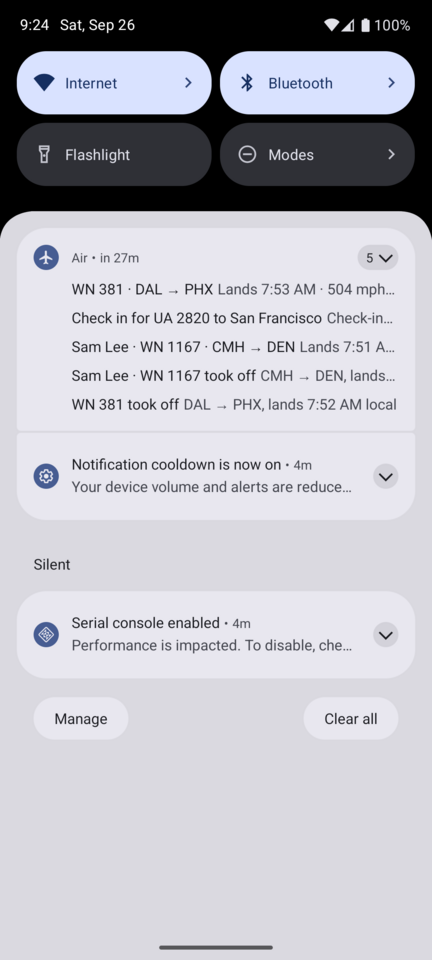
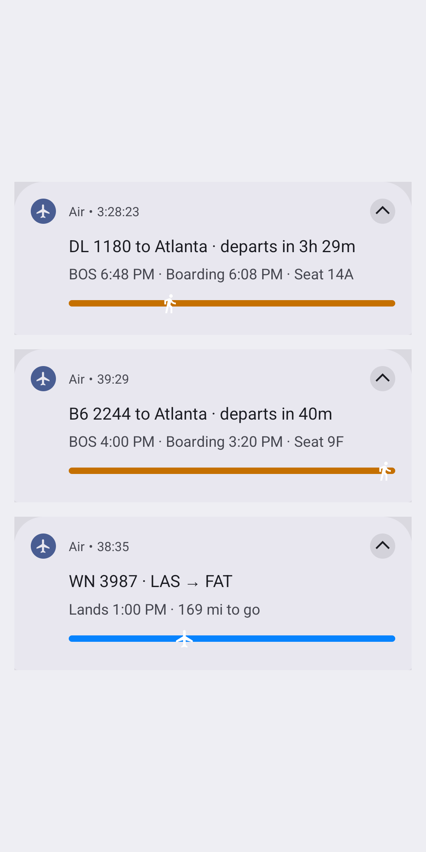
README: screenshots under the intro, notification stages, data sources table
Screenshots sit in a row under the intro; the notifications image stacks
the live notification before the airport, at the airport and in the air,
each captured on its own. Data sources at the bottom as a table of what
each service is used for, what it's sent and how often. Guides bullet and
build section dropped.

diff --git a/tools/screenshots.py b/tools/screenshots.py
@@ -402,32 +402,30 @@ def shade_card(f: dict) -> "Image.Image | None":
     time.sleep(25)
     shell("input keyevent KEYCODE_HOME")
     time.sleep(2)
-    xml = ""
-    for _ in range(8):  # a swipe from the top, as a person would; the statusbar command alone is unreliable
-        shell("input swipe 540 2 540 1600 300")
-        time.sleep(1)
-        shell("cmd statusbar expand-notifications")
-        time.sleep(3)
-        shell("uiautomator dump /sdcard/ui.xml", check=False)
-        xml = shell("cat /sdcard/ui.xml", check=False)
-        if "expandableNotificationRow" in xml:
-            break
+    shell("input swipe 540 2 540 1600 300")  # a swipe from the top, as a person would
+    time.sleep(1)
+    shell("cmd statusbar expand-notifications")
+    time.sleep(5)  # let the shade finish opening and settle
     path = OUT / "_shade.png"
     with open(path, "wb") as fh:
         subprocess.run([ADB, "exec-out", "screencap", "-p"], stdout=fh, check=True)
     shell("cmd statusbar collapse")
     shade = Image.open(path).convert("RGB")
+    if os.environ.get("AIR_SHOTS_DEBUG"):
+        shade.save(OUT / f"_debug_{f['airline']}{f['number']}.png")
     path.unlink()
-    label = f"{f['airline']} {f['number']}"
-    num = r"\[(\d+),(\d+)\]\[(\d+),(\d+)\]"
-    rows = [tuple(map(int, m.groups())) for m in re.finditer(r'expandableNotificationRow"[^>]*?bounds="' + num, xml)]
-    texts = [(m.group(1), *map(int, m.groups()[1:])) for m in re.finditer(r'text="([^"]*)"[^>]*?bounds="' + num, xml)]
-    hits = [r for r in rows if any(label in t and r[0] <= (x0 + x1) / 2 <= r[2] and r[1] <= (y0 + y1) / 2 <= r[3]
-                                   for t, x0, y0, x1, y1 in texts)]
-    if not hits:
-        print(f"  ! no notification for {label}")
+    # The UI dump misses the shade on the emulator, so find the first card (Air's ongoing notification sorts first)
+    # by its color: down the middle to its top, then down its edge to the gap below it.
+    w, h = shade.size
+    card = shade.getpixel((w // 2, int(h * 0.30)))
+    def near(a, b): return sum(abs(x - y) for x, y in zip(a, b)) < 12
+    top = next((y for y in range(int(h * 0.15), int(h * 0.6)) if near(shade.getpixel((w // 2, y)), card)), None)
+    if top is None:
+        print(f"  ! no notification card found for {f['airline']} {f['number']}")
         return None
-    return shade.crop(min(hits, key=lambda r: r[3] - r[1]))
+    bottom = next((y for y in range(top + 60, h) if not near(shade.getpixel((w // 18, y)), card)
+                   and not near(shade.getpixel((w // 18, y + 2)), card)), h)
+    return shade.crop((w // 25, top, w - w // 25, bottom))
 
 
 def notification_stages() -> None:

diff --git a/README.md b/README.md
@@ -4,27 +4,23 @@ A private flight tracker and travel passport for Android. Track your own flights
 history on a map, and import confirmations by just sharing them to the app. Everything stays on the phone.
 
 <!-- screenshots:start -->
-## Screenshots
-
-Made-up example data (the two flights in the air are real flights at the time of capture). Regenerate with `python tools/screenshots.py`.
-
-| **Flights** | **In flight** | **Passport** |
-|---|---|---|
-| <img src="docs/screenshots/flights.png" width="260"> | <img src="docs/screenshots/flight_live.png" width="260"> | <img src="docs/screenshots/passport.png" width="260"> |
-| Upcoming trips; a flight in the air shows live progress, speed and altitude. | Route map with the live plane and the phase bar: pre-travel, departure, in the air, arrival. | Your flights on a map with miles, time in the air, airports and countries. |
+<p align="center"><img src="docs/screenshots/flights.png" width="200" alt="flights"> <img src="docs/screenshots/flight_live.png" width="200" alt="flight_live"> <img src="docs/screenshots/notifications.png" width="200" alt="notifications"> <img src="docs/screenshots/passport.png" width="200" alt="passport"></p>
 <!-- screenshots:end -->
 
 ## Features
 
 - Live tracking for your own flights and friends', with gate, delay, and takeoff/landing notifications.
-- A flight page with a route map, schedule, weather at both ends, and (while airborne) speed, altitude and heading.
+- A live notification that follows each flight: a countdown with the time to leave, boarding and the gate at the
+  airport, then progress, speed and landing time in the air.
+- A flight page with a route map, schedule, weather at both ends, your plane's previous flight, and (while airborne)
+  speed, altitude and heading. Connecting flights show as one journey.
+- Map layers: radar, forecast radar for US takeoffs, weather along the route, and the paths earlier flights took.
 - Import by sharing a confirmation email, PDF, or screenshot to the app, or by printing an email to "Save to Air".
   OCR and PDF text extraction run on-device.
 - Optional Gmail scan: link one or more mailboxes with an app password and Air finds past and new bookings for you
   to pick from. Manual, or every few weeks in the background.
 - A passport view: every past flight on a map, with miles, time in the air, and top airports/airlines/routes.
-- A home screen widget with the route map and a countdown to your next flight.
-- Bundled guides for airports (terminals, maps, lounges) and airlines (check-in, baggage, alliance).
+- A home screen widget with the route map, radar and a countdown to your next flight.
 
 ## Install
 
@@ -32,30 +28,24 @@ Download the latest APK from [Releases](https://github.com/goldbattle/air/releas
 GitHub for new releases itself (Settings > About > Check for updates, with an optional daily background check) and
 installs them in place.
 
-## Privacy
+## Data sources
 
-There's no account and no analytics. Air only talks to:
+There's no account and no analytics. Your flights, emails and backups stay on the phone; these services only see
+what's listed. Layers marked *off by default* make no requests until you turn them on.
 
-- [adsb.lol](https://adsb.lol) for routes and live positions, and [Open-Meteo](https://open-meteo.com) for weather
-  (flight callsigns, airport coordinates and dates; weather along the route sends points on the great circle).
-- [RainViewer](https://www.rainviewer.com/api.html) for the weather radar on the map, from 6 hours before departure
-  until landing (only map tile coordinates).
-- [AeroDataBox](https://aerodatabox.com) or [FlightAware AeroAPI](https://www.flightaware.com/commercial/aeroapi/),
-  only if you add your own key (flight numbers and dates).
-- GitHub, to check for updates.
-- Your mail server, only if you link an email account. Mail is read straight to the phone with an app password that
-  is encrypted on the device.
+| Source | Used for | What it's sent | How often |
+|---|---|---|---|
+| [adsb.lol](https://adsb.lol) | Live positions, routes, the plane's previous flight, the path a flight actually flew | Callsign, tail number or aircraft hex | Every 1–10 min around and during a flight; a flight's full path once after landing |
+| [Open-Meteo](https://open-meteo.com) | Weather at takeoff and landing; weather along the route (*off by default*) | Airport or route coordinates and times | Daily when far out, every 6 h in the last 3 days, every 3 h on the day |
+| [RainViewer](https://www.rainviewer.com/api.html) | Radar on the map and widget | Map tile coordinates | Every 10 min while shown, from 6 h before departure until the flight's rain map is out |
+| [NASA GIBS (IMERG)](https://gibs.earthdata.nasa.gov) | Rain during past flights, worldwide | A time | Once per 3-hour slot, about 7 h after the flight; kept on the phone and in exports |
+| [NOAA HRRR via Iowa State](https://mesonet.agron.iastate.edu) | Forecast radar for US takeoffs (*off by default*) | Nothing but the forecast step | Hourly while shown, up to 48 h before takeoff |
+| [AeroDataBox](https://aerodatabox.com) (your key) | Status, delays, gates, aircraft; past routes (*off by default*) | Flight number and date | Weekly far out down to every 20 min near departure; past routes one day per request, at most once a day |
+| [FlightAware AeroAPI](https://www.flightaware.com/commercial/aeroapi/) (your key) | Gates, tail number and inbound plane when AeroDataBox lacks them; past routes fallback | Flight number | Only when something's missing in the last 12 h, on a gate change, or on pull to refresh |
+| GitHub | Update check | Nothing | Daily (can be turned off) |
+| Your mail server | Gmail scan (optional) | Your address and app password, encrypted on the phone | Manual, or every 1–4 weeks |
 
 Backups are a JSON file you export yourself.
-
-## Building from source
-
-Requires Android Studio or the command line with `ANDROID_SDK_ROOT` set.
-
-```
-./gradlew assembleRelease   # app/build/outputs/apk/release/app-release.apk, debug-signed for sideloading
-./gradlew testDebugUnitTest
-```
 
 ---
 
